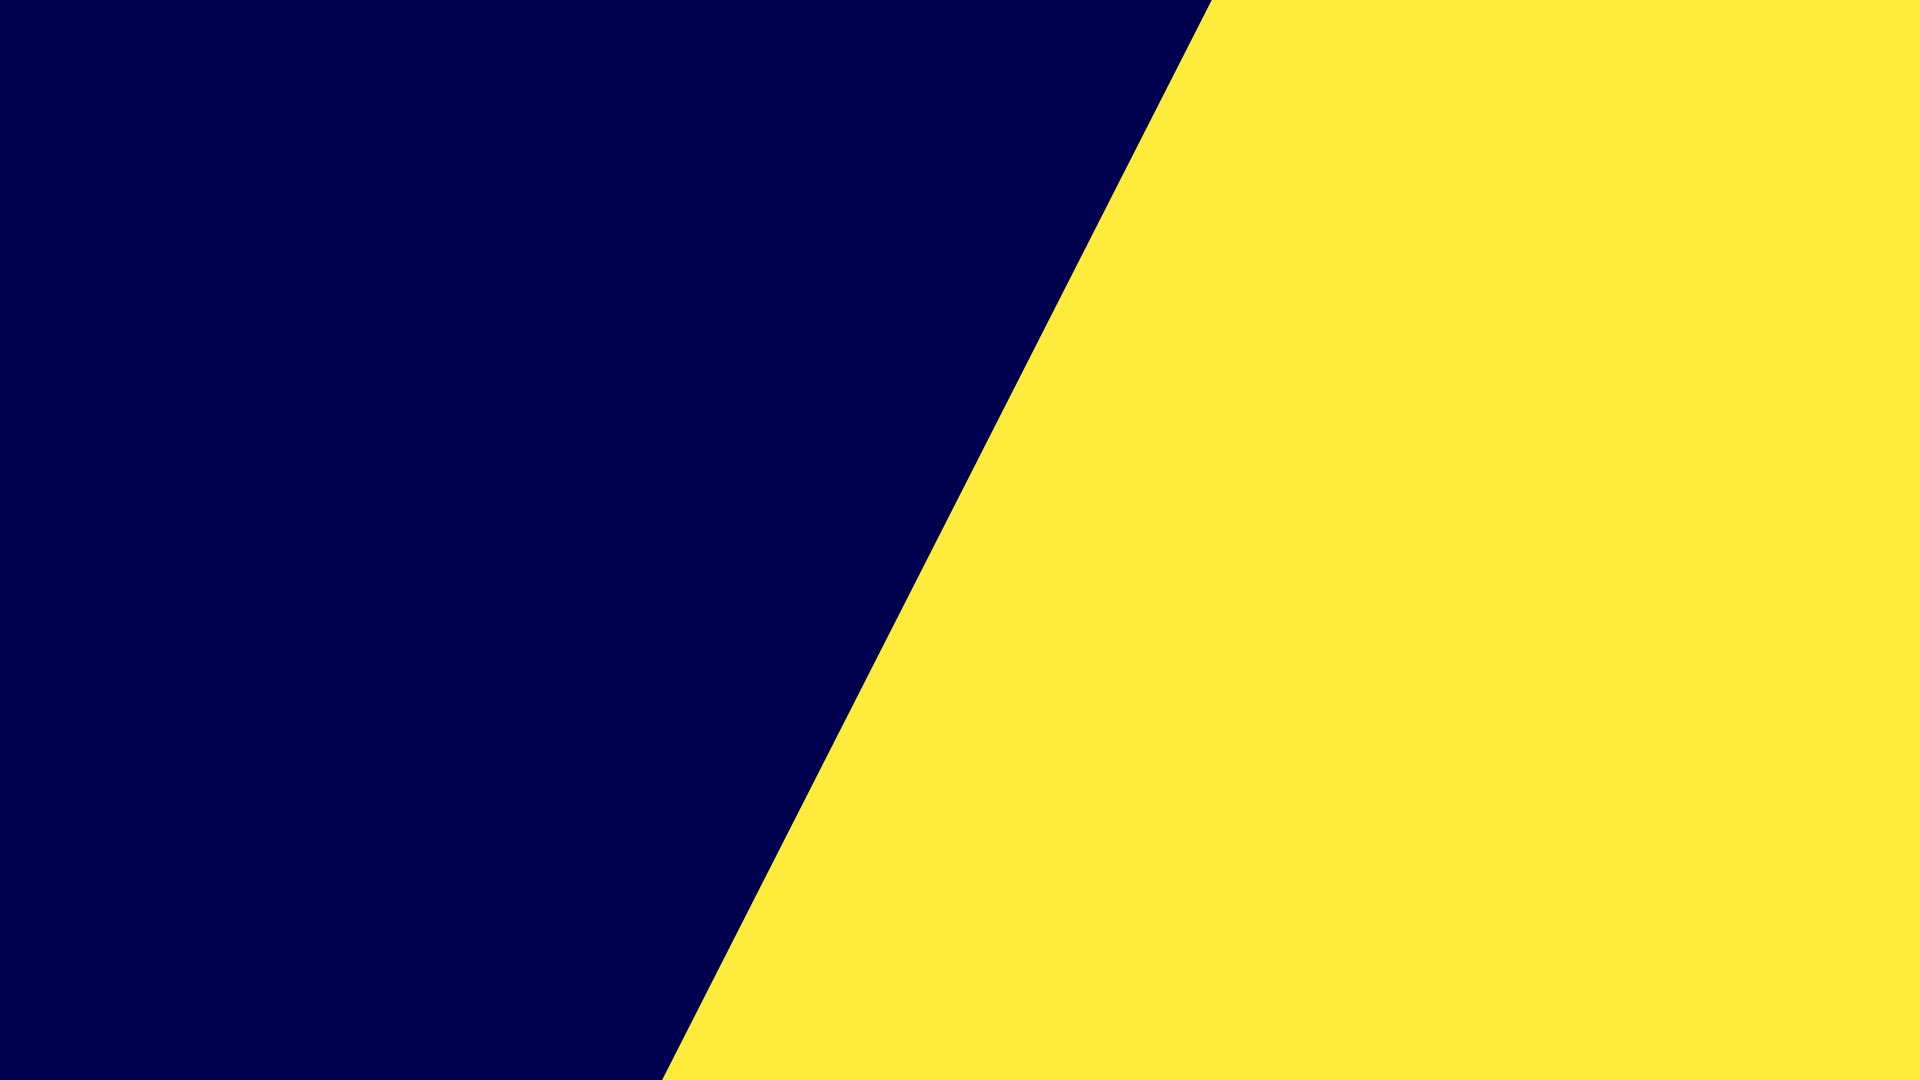
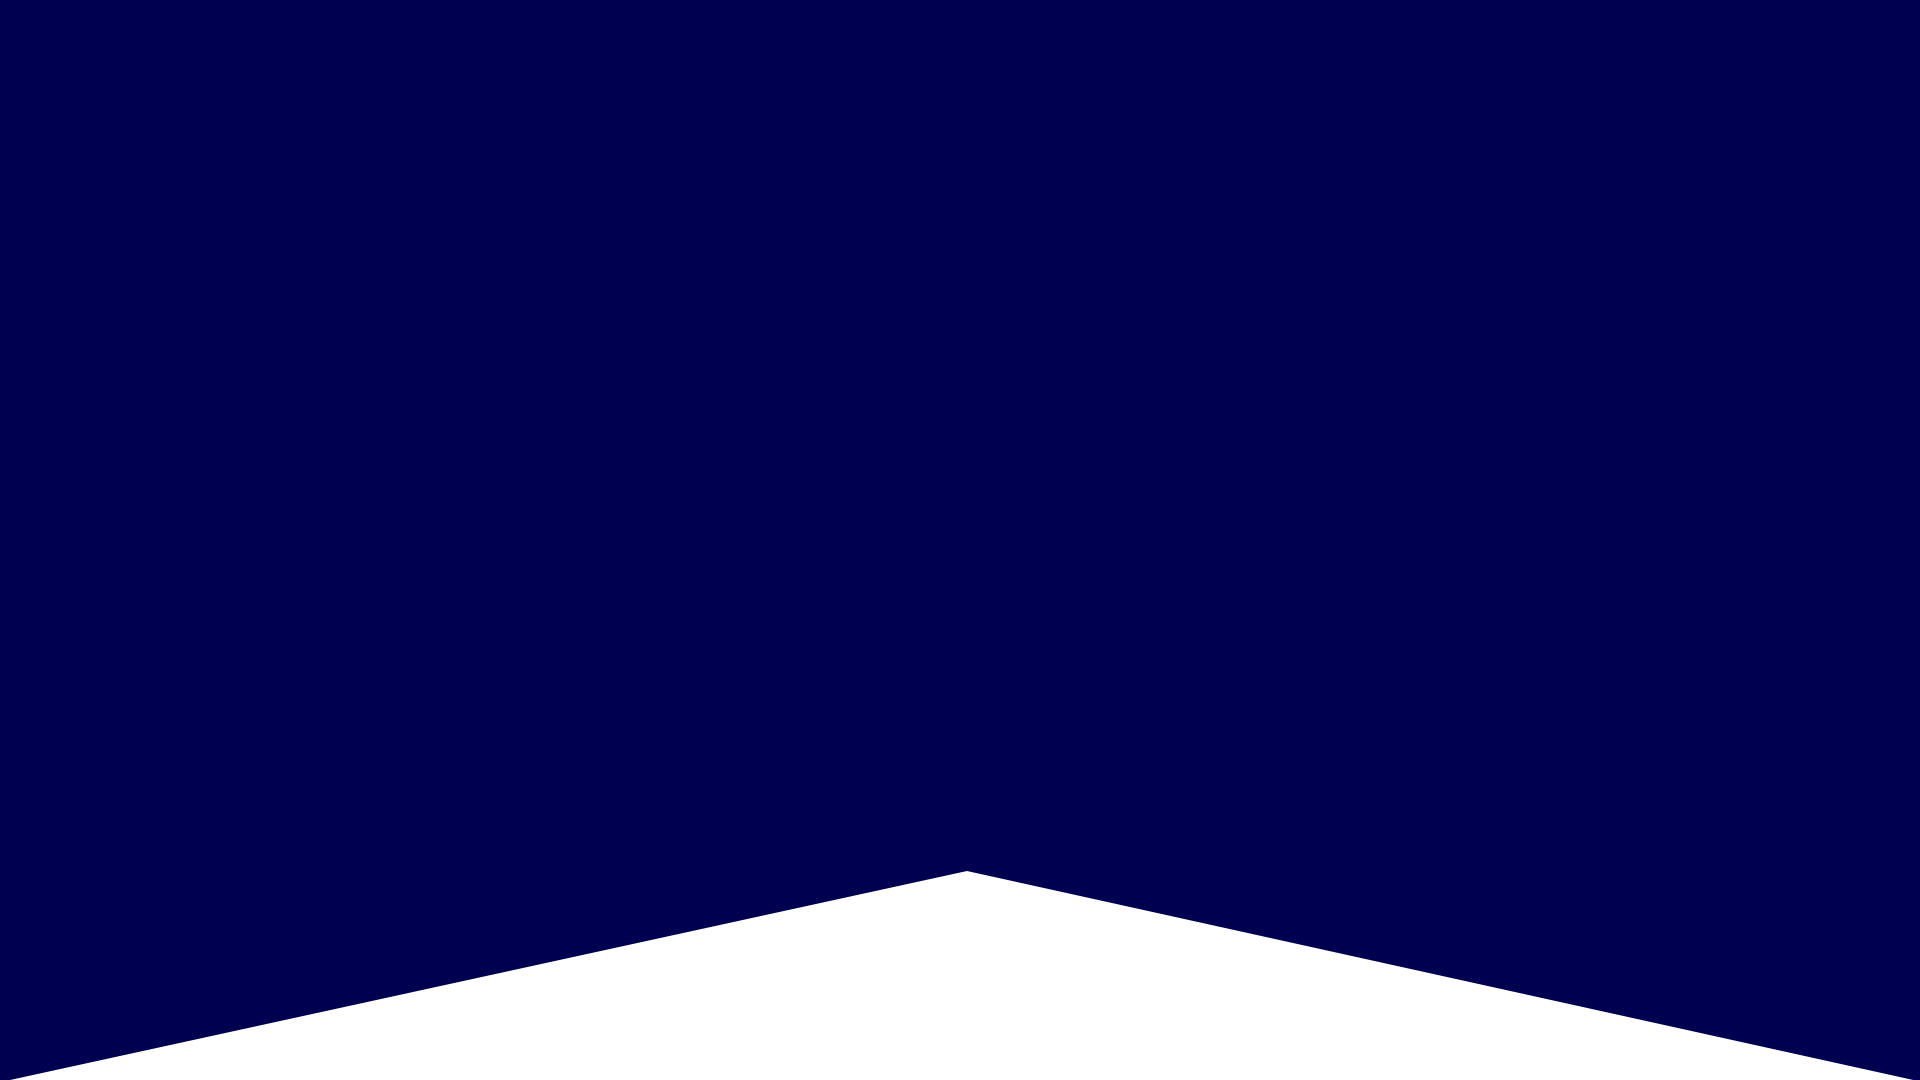
Theme color updated

diff --git a/src/section/About.js b/src/section/About.js
@@ -2,7 +2,7 @@ import React from 'react';
 import { Container, Grid, Box, Typography } from '@material-ui/core';
 import { makeStyles } from '@material-ui/core/styles';
 
-import { yellow, blue } from '../Colors';
+import { lightblue, blue } from '../Colors';
 import KrishnaTandon from '../images/KT2.png';
 import { siteHeadingTitle } from '../Common';
 
@@ -17,16 +17,25 @@ const useStyles = makeStyles({
 		justifyContent: 'center',
 		color: `${blue}`,
 		'& > Typography': {
-			fontWeight: 'bold'
+			fontWeight: 'bold !important'
 		}
+	},
+	description: {
+		display: 'flex',
+		justifyContent: 'center',
+		flexDirection: 'column',
+		background: '#e1f5fe1A',
+		padding: '40px',
+		transform: 'skewY(-10deg)',
+		boxShadow: '-40px 20px 20px #e1f5fe4d'
 	},
 	ktImg: {
 		width: '350px',
 		height: '350px',
-		boxShadow: `20px 20px 0 0 ${yellow}, -20px -20px 0 0 ${blue}`,
-		transition: '0.5s',
+		boxShadow: `20px 20px 0 0 ${blue}, -20px -20px 0 0 ${lightblue}`,
+		transition: '1s',
 		'&:hover': {
-			boxShadow: `-20px -20px 0 0 ${yellow}, 20px 20px 0 0 ${blue}`
+			boxShadow: `10px 10px 0 0 ${blue}, -10px -10px 0 0 ${lightblue}`
 		},
 		margin: '70px auto 0',
 		display: 'flex',
@@ -47,10 +56,15 @@ export default function About() {
 						</Typography>
 					</Grid>
 					<Grid item xs={6} className={classes.aboutdetails}>
-						<Typography variant={'h5'} align="center" fontWeight="fontWeightBold">
-							Hi, I am Krishna. Web developer with 5+ years of experience. Currently, I am UI Technical
-							Lead at TCS, India.
-						</Typography>
+						<div className={classes.description}>
+							<Typography variant={'h5'} style={{ margin: '10px 0' }}>
+								Hi, I am Krishna. Web developer with 5+ years of experience. Currently, I am working as
+								a UI Technical Lead at TCS, India.
+							</Typography>
+							<Typography variant={'h5'}>
+								I also design wireframes, write clean and well documented frontend code.
+							</Typography>
+						</div>
 					</Grid>
 					<Box component={Grid} md={6} display={{ xs: 'none', md: 'block' }}>
 						<img src={KrishnaTandon} className={classes.ktImg} alt="Krishna Tandon" />

diff --git a/src/section/Skills.js b/src/section/Skills.js
@@ -2,12 +2,12 @@ import React from 'react';
 import { makeStyles } from '@material-ui/core/styles';
 import { Container, Grid, Typography, Card, CardContent } from '@material-ui/core';
 
-import { yellow, blue } from '../Colors';
+import { lightblue, blue } from '../Colors';
 import { siteHeadingTitle } from '../Common';
 
 const useStyles = makeStyles({
 	skillsSection: {
-		backgroundColor: '#F6F6F633',
+		background: 'linear-gradient(to bottom, #FFFFFF, #e1f5fe1A, #FFFFFF)',
 		padding: '100px 0'
 	},
 	skilltext: siteHeadingTitle,
@@ -24,14 +24,14 @@ const useStyles = makeStyles({
 		textAlign: 'center',
 		transition: '0.5s',
 		borderRadius: 0,
-		//border: `5px solid transparent`,
-		//boxShadow: `10px 10px 0 0 ${yellow}, -10px -10px 0 0 ${blue}`,
+		border: `5px solid transparent`,
+		//boxShadow: `10px 10px 0 0 ${lightblue}, -10px -10px 0 0 ${blue}`,
 		backgroundColor: `#FFFFFF`,
 		color: `${blue}`,
-		boxShadow: '0px 5px 5px 0 #CCCCCC',
+		boxShadow: '0px 0px 10px 0 #e1f5fe',
 		'&:hover': {
 			//border: `5px solid ${blue}`,
-			boxShadow: `-10px -10px 0 0 ${yellow}, 10px 10px 0 0 ${blue}`
+			boxShadow: `-10px -10px 0 0 ${blue}, 10px 10px 0 0 ${blue}`
 			//boxShadow: '0px 0px 1px 0 #CCCCCC44'
 		}
 	}

diff --git a/src/Common.js b/src/Common.js
@@ -1,8 +1,8 @@
 import { blue } from './Colors';
-import yellowblob from './images/yellowblob.svg';
+import blueblob from './images/blueblob.svg';
 
 export const siteHeadingTitle = {
-	backgroundImage: `url(${yellowblob})`,
+	backgroundImage: `url(${blueblob})`,
 	backgroundSize: '100px',
 	backgroundRepeat: 'no-repeat',
 	backgroundPosition: '0px 0px',

diff --git a/src/App.css b/src/App.css
@@ -7,6 +7,8 @@ body {
 
 .site-cover {
 	background-image: url("../src/images/sitebackground.png");
+	/* background: linear-gradient(to bottom, #000051, #e1f5fe1A); */
+	/* background: #000051; */
 	background-size: cover;
 	background-repeat: no-repeat;
 	background-position: center;

diff --git a/src/Colors.js b/src/Colors.js
@@ -1,2 +1,3 @@
 export const blue = '#000051';
+export const lightblue = '#e1f5fe';
 export const yellow = '#ffeb3b';
